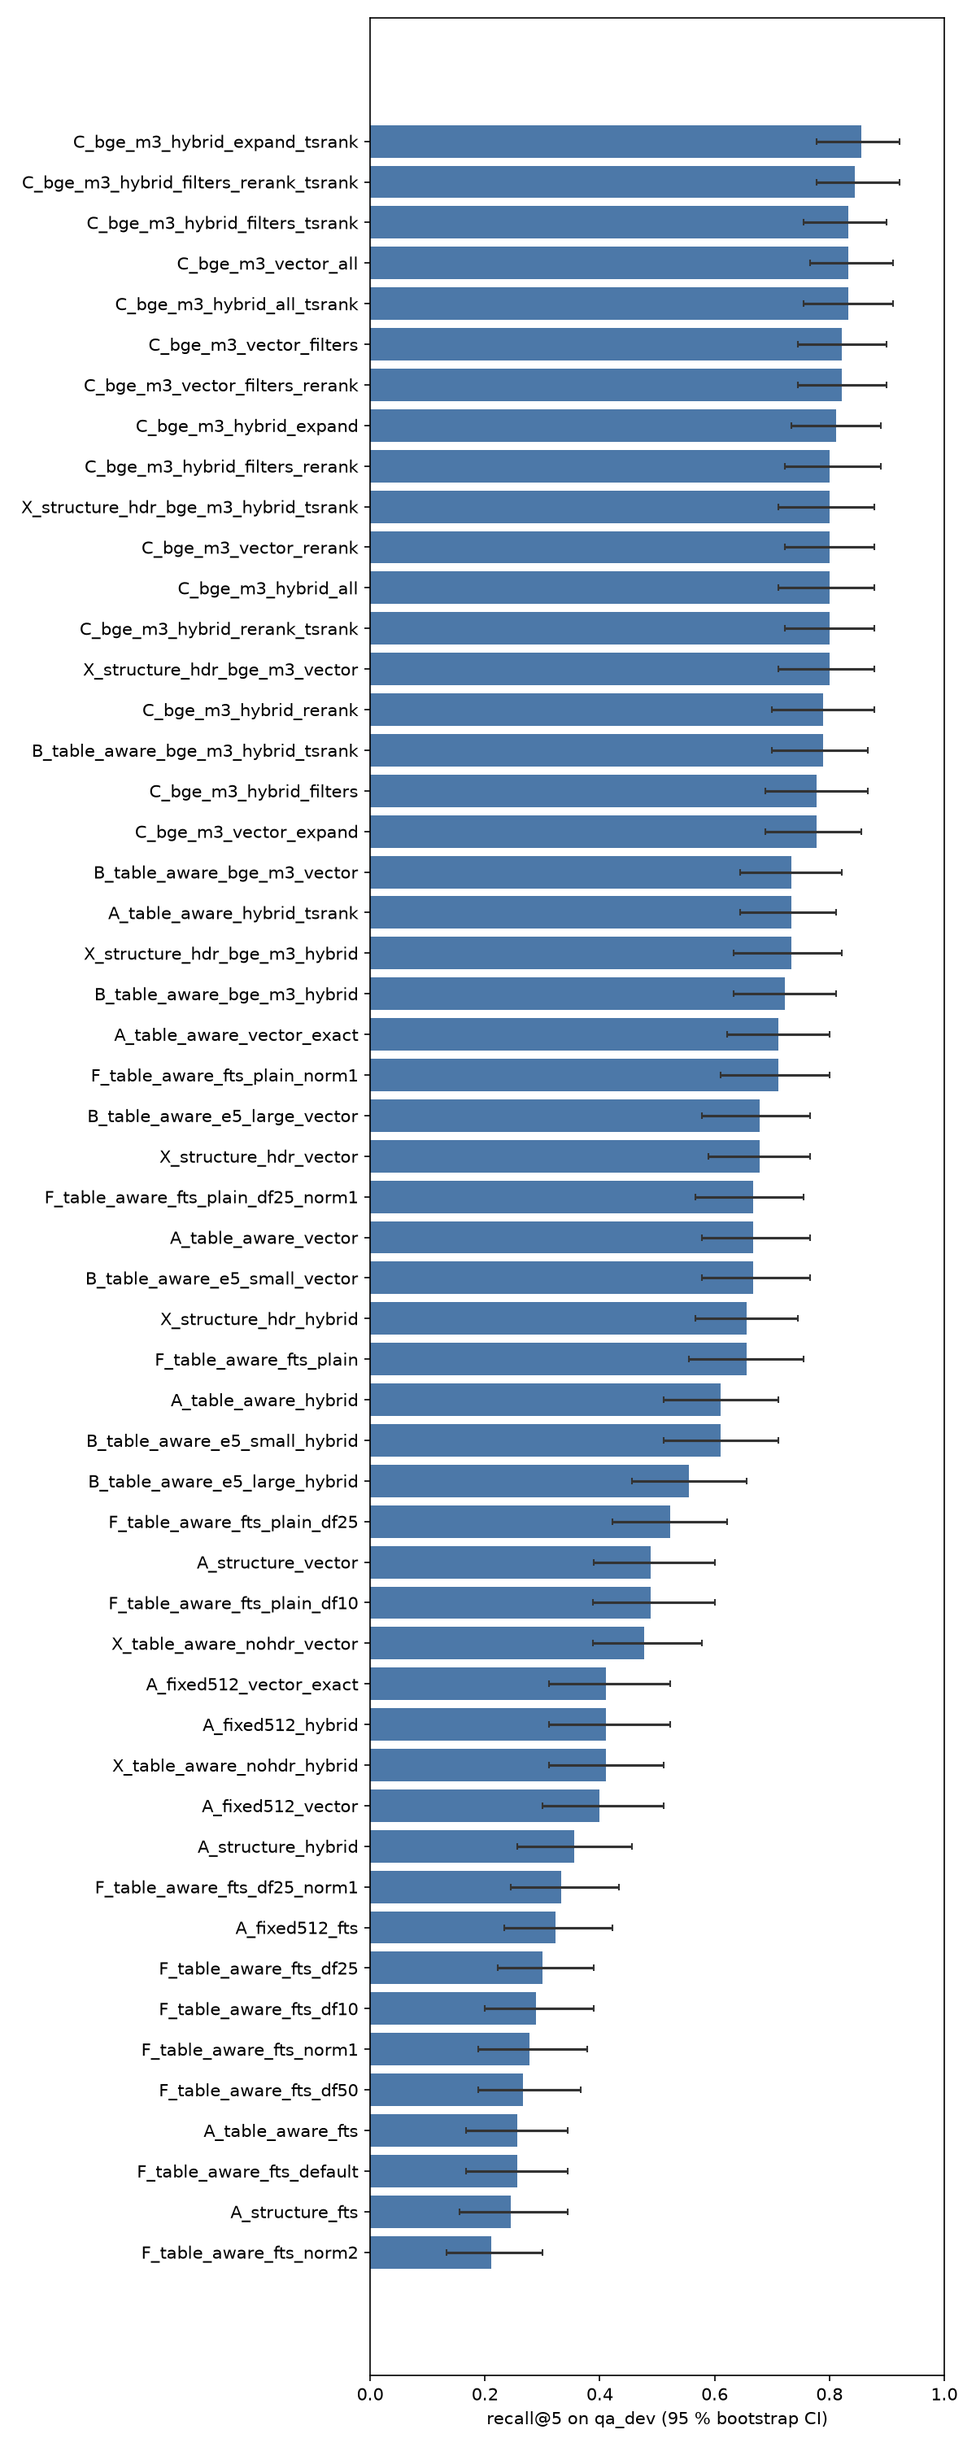
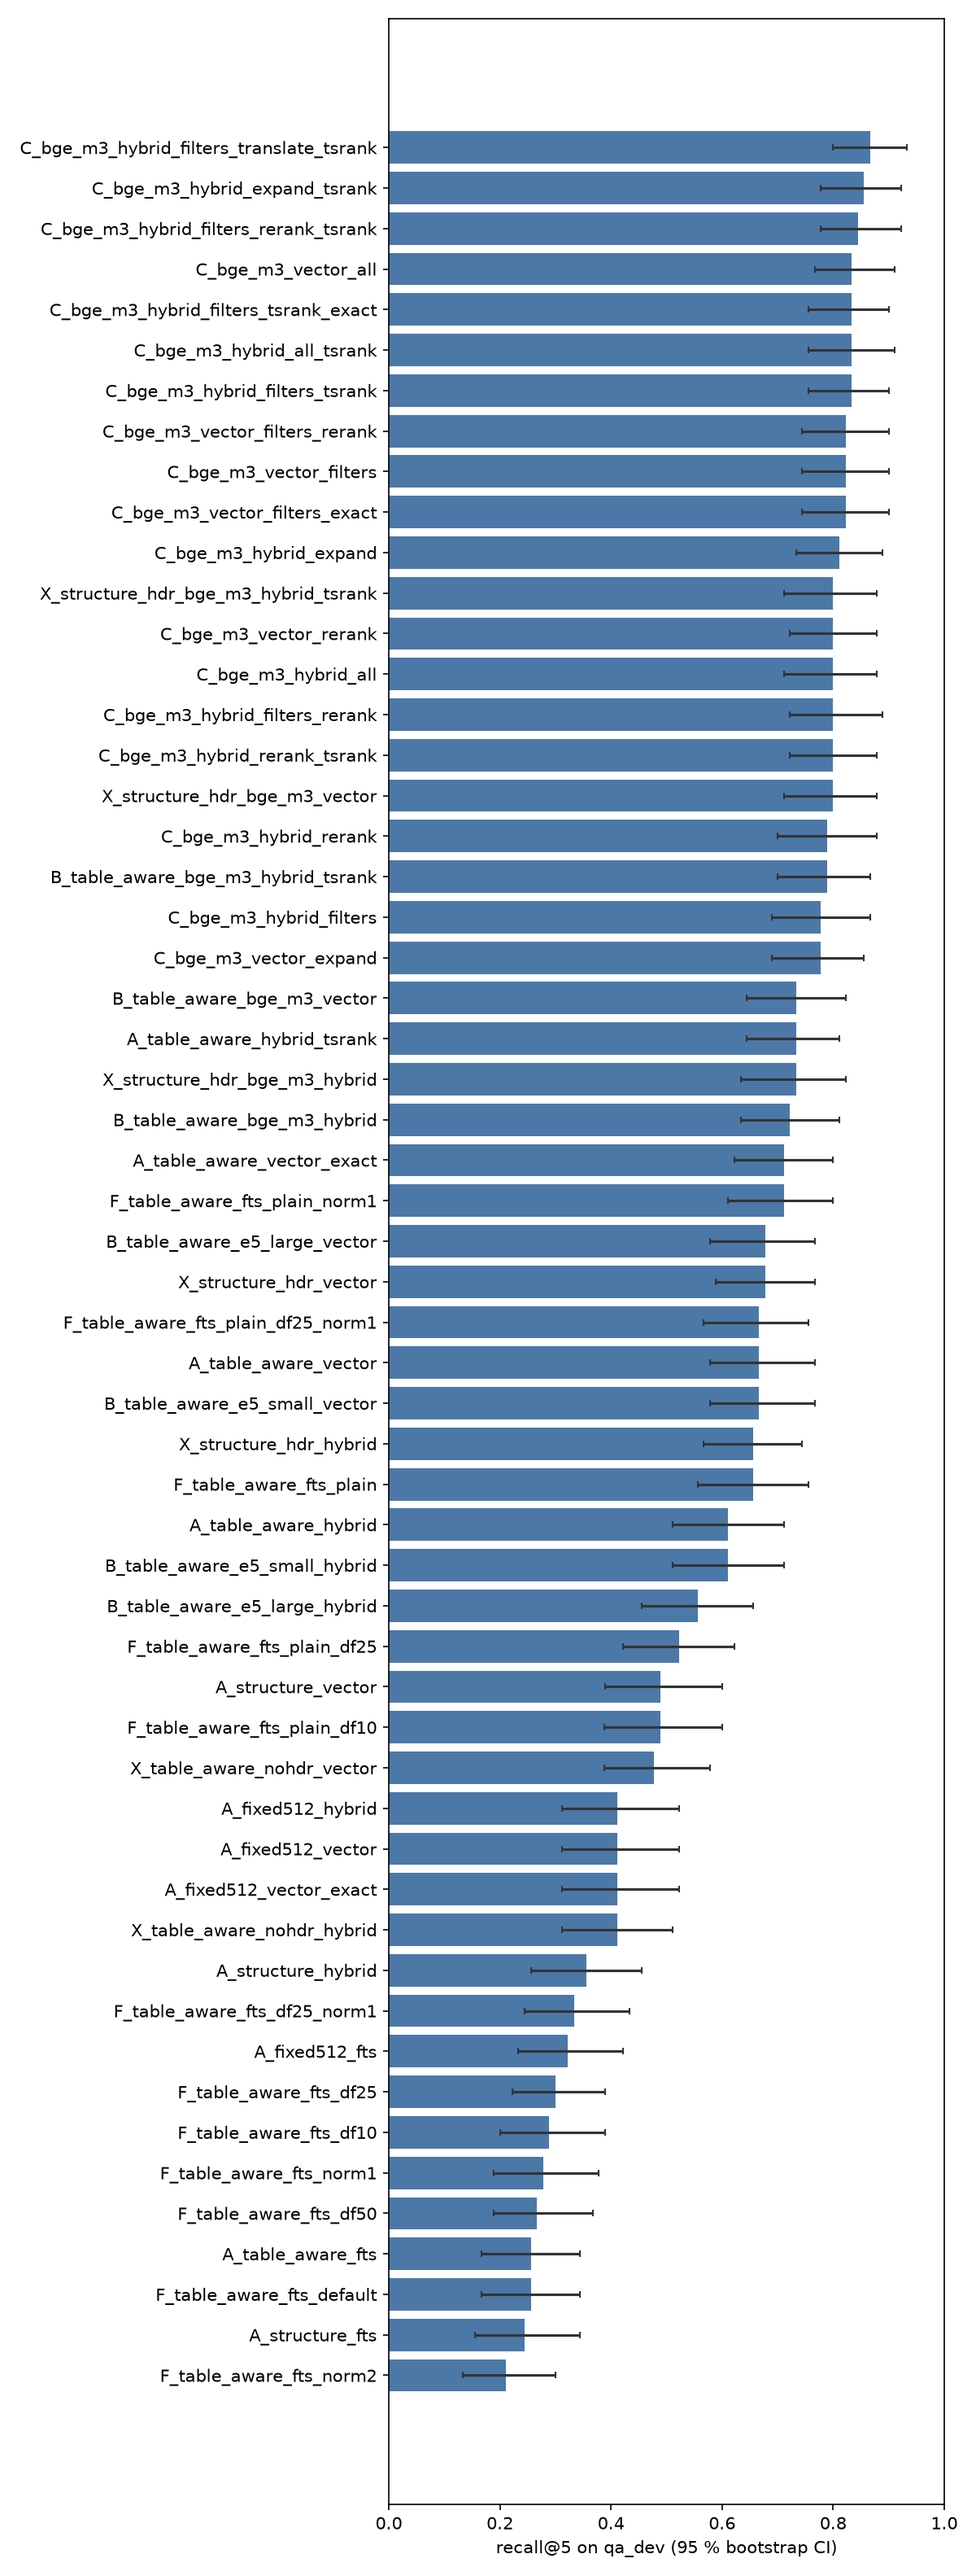
Phase 3: Stage C, error analysis, translation fix, test-set results

Changed region(s): [[0.0308, 0.0309, 0.925, 0.9897], [0.4933, 0.9588, 0.8633, 1.0]]

diff --git a/src/finagent/retrieval/expand.py b/src/finagent/retrieval/expand.py
@@ -51,3 +51,33 @@ def _expand(query: str, n: int, model: str) -> list[str]:
         max_tokens=2000,
     )
     return [q.strip() for q in r.parsed.queries if q.strip()][:n]
+
+
+BANK_LANG = {"bcv": "fr", "bcge": "fr"}  # every other bank in the corpus reports in English
+_LANG_NAME = {"en": "English", "fr": "French"}
+
+
+class Translation(BaseModel):
+    query: str
+
+
+TRANSLATE = """Translate this question about a Swiss bank's annual report into {target}, using the
+terms such a report would use. Keep bank names, years and numbers exactly. Reply with the
+translated question only.
+
+Question: {q}"""
+
+
+def translate_query(query: str, target: str, model: str = "deepseek_flash") -> str | None:
+    """Translation of the question into the report language; None if the call fails."""
+    try:
+        r = _client(model).chat(
+            [{"role": "user", "content": TRANSLATE.format(target=_LANG_NAME[target], q=query)}],
+            response_format=Translation,
+            max_tokens=2000,
+        )
+        return r.parsed.query.strip() or None
+    except ValueError as e:
+        FAILURES.append(query)
+        print(f"translation failed, using the original query only: {str(e)[:80]}", flush=True)
+        return None

diff --git a/src/finagent/retrieval/pipeline.py b/src/finagent/retrieval/pipeline.py
@@ -2,7 +2,7 @@
 
 from __future__ import annotations
 
-from finagent.retrieval.expand import expand_query
+from finagent.retrieval.expand import BANK_LANG, expand_query, translate_query
 from finagent.retrieval.fts import detect_ts_config, fts_search
 from finagent.retrieval.fusion import rrf
 from finagent.retrieval.metadata import extract_filters
@@ -21,6 +21,12 @@ def retrieve(query: str, cfg: RetrievalConfig, filters: Filters | None = None) -
     queries = [query]
     if cfg.expansion.enabled:
         queries += expand_query(query, cfg.expansion.n, cfg.expansion.model)
+    if cfg.translate_cross_lingual and filters and filters.banks:
+        q_lang = "fr" if detect_ts_config(query) == "french" else "en"
+        targets = {BANK_LANG.get(b, "en") for b in filters.banks} - {q_lang}
+        for t in sorted(targets):
+            if tr := translate_query(query, t, cfg.expansion.model):
+                queries.append(tr)
 
     lists: list[list[Hit]] = []
     for q in queries:

diff --git a/eval/report.py b/eval/report.py
@@ -63,7 +63,27 @@ def chart(summary: pd.DataFrame) -> None:
 
 
 def main() -> None:
+    import sys
+
     RESULTS.mkdir(exist_ok=True)
+    if "--test" in sys.argv:  # final configs on the held-out test set
+        df = latest_runs("eval/datasets/qa_test.jsonl")
+        summarise(df).to_csv(RESULTS / "retrieval_test.csv", index=False)
+        summarise(df, by=["type"]).to_csv(RESULTS / "retrieval_test_by_type.csv", index=False)
+        print(
+            summarise(df)[
+                [
+                    "config",
+                    "n",
+                    "recall@5",
+                    "recall@5_lo",
+                    "recall@5_hi",
+                    "mrr@10",
+                    "latency_p50_ms",
+                ]
+            ].to_string(index=False)
+        )
+        return
     df = latest_runs()
     if df.empty:
         print("no retrieval runs yet")

diff --git a/eval/run_retrieval.py b/eval/run_retrieval.py
@@ -134,10 +134,16 @@ def main() -> None:
     ap.add_argument("configs", nargs="*")
     ap.add_argument("--grid", help="glob of config files")
     ap.add_argument("--no-store", action="store_true")
+    ap.add_argument(
+        "--dataset", help="override the config's dataset, e.g. eval/datasets/qa_test.jsonl"
+    )
     args = ap.parse_args()
     paths = sorted(args.configs + (glob.glob(args.grid) if args.grid else []))
     for p in paths:
-        run_config(RetrievalConfig.from_yaml(p), store=not args.no_store)
+        cfg = RetrievalConfig.from_yaml(p)
+        if args.dataset:
+            cfg = cfg.model_copy(update={"dataset": args.dataset})
+        run_config(cfg, store=not args.no_store)
 
 
 if __name__ == "__main__":

diff --git a/src/finagent/retrieval/types.py b/src/finagent/retrieval/types.py
@@ -59,6 +59,9 @@ class RetrievalConfig(BaseModel):
     use_metadata_filters: bool = False
     rerank: Rerank = Field(default_factory=Rerank)
     expansion: Expansion = Field(default_factory=Expansion)
+    translate_cross_lingual: bool = (
+        False  # add a translation when question and report languages differ
+    )
     ann: bool = True  # False = exact vector search (no HNSW), for measuring approximation loss
     top_k: int = 10
     dataset: str = "eval/datasets/qa_dev.jsonl"

diff --git a/README.md b/README.md
@@ -45,3 +45,44 @@ sheet instead of the consolidated one.
 - "Unanswerable" items were screened by looking at the nearest passages in the same bank's reports, not by an exhaustive search,
   and most ask about 2026 forecasts.
 - Random page sampling yields many detail questions (governance, notes) and few headline KPIs.
+
+## Retrieval results (Phase 3)
+
+`qa_dev` holds 90 answerable questions and `qa_test` 45; unanswerable items are excluded from retrieval metrics. Relevance
+is page-level (gold or alternate page). Intervals are 95 % bootstrap CIs; "A beats B" is claimed only when the paired
+bootstrap CI of the per-question difference excludes 0. All runs: `results/retrieval*.csv`, chart `results/retrieval.png`.
+
+**Held-out test set (run once):**
+
+| Configuration | recall@5 [95 % CI] | MRR@10 | p50 latency |
+|---|---|---|---|
+| Naive baseline: fixed 512-token chunks, e5-small, vector | 0.44 [0.29, 0.58] | 0.27 | 14 ms |
+| bge-m3 vector + bank/year filters | 0.80 [0.67, 0.91] | 0.71 | 25 ms |
+| bge-m3 hybrid (vector + FTS, RRF) + filters + cross-lingual translation | 0.80 [0.67, 0.91] | 0.74 | 54 ms (p95 2.2 s) |
+
+Both final configurations beat the baseline (recall@5 +0.36, CI [+0.18, +0.51]; MRR +0.44 to +0.47); they are not
+distinguishable from each other on test (recall@5 +0.00 [-0.09, +0.09], MRR +0.03 [-0.06, +0.11]). On dev the hybrid
+configuration scored 0.87 recall@5, so part of its dev advantage was selection on dev.
+
+**Findings (dev unless stated):**
+
+1. **The context header, not table isolation, drove the chunker result.** Table-aware chunking beat structure-based
+   chunking by +0.18 recall@5, but removing its one-line `Bank | Year | Section` header erased the gain (table-aware without
+   header vs structure: -0.01, n.s.), and adding the header to structure chunks gave the same score as table-aware (+0.01, n.s.).
+2. **bge-m3 ranks better than the e5 models; size alone does not.** On table-aware chunks, bge-m3 improved MRR by +0.11
+   [+0.03, +0.20] over e5-small; e5-large was no better than e5-small (+0.00).
+3. **Metadata filters are the cheapest win; reranking and LLM expansion add latency, not accuracy.** Bank/year filters:
+   +0.09 recall@5 [+0.03, +0.14] at no latency cost. A cross-encoder reranker (+1 s) and 3-query LLM expansion (+2.6 s) were
+   not significant alone and added nothing on top of filters.
+4. **Postgres full-text search needs `ts_rank` for OR queries.** With `ts_rank_cd` (cover density) the OR query ranked almost
+   arbitrarily (recall@5 0.26); `ts_rank` with length normalisation reached 0.71, on par with dense retrieval, and made
+   hybrid retrieval useful (e5-small hybrid vs vector: MRR +0.09 [+0.03, +0.16]). My first conclusion that "FTS is weak and
+   hybrid does not help" was an artefact of that ranking choice.
+5. **Cross-lingual questions were the top failure cause, and translation fixed most of them.** Of 15 misses of the best dev
+   configuration, 5 were English questions about the French-language BCGE report; translating the question when its language
+   differs from the named bank's report raised cross-lingual recall@5 from 0.50 to 0.80 (n = 10) and overall MRR by +0.03
+   [+0.01, +0.06]. Other misses: 3 ambiguous or wrong items (one corrected), 2 gold labels too narrow, 1 lost table header,
+   4 other (`results/error_analysis.csv`).
+
+Caveats: 90 dev questions give wide intervals; many configurations were compared on the same dev set; approximate (HNSW)
+search cost up to 0.04 recall@5 for unfiltered queries because one index serves five chunkers.

diff --git a/JOURNAL.md b/JOURNAL.md
@@ -12,3 +12,4 @@ One line per session: what I tried, what I measured, what surprised me.
 - 2026-11-06 — Phase 3 Stage A (9 configs, e5-small, qa_dev, 90 answerable items): table_aware+vector best (R@5 0.67 [0.58,0.77], MRR 0.51), then table_aware+hybrid (0.61), structure+vector (0.49), fixed512 (0.40-0.41). Paired bootstrap: table_aware beats structure (+0.18 R@5) and fixed512 (+0.27) with vector retrieval; structure vs fixed512 not significant. FTS is weak everywhere (R@5 0.24-0.32) and hybrid does not beat vector (table_aware: R@5 not significant, MRR -0.11 significant; structure: hybrid R@5 -0.13 significant). Confound to test: table_aware chunks carry "Bank | Year | Section" in their text, so part of the gain may be implicit bank/year matching rather than table isolation.
 - 2026-11-07 — Phase 3 ablation + Stage B (qa_dev, n=90). Header ablation (e5-small, vector): table_aware 0.67 R@5; table_aware WITHOUT its "Bank | Year | Section" header 0.48 (paired diff +0.19 [+0.10,+0.28]); structure 0.49; structure WITH the header 0.68 (+0.19 [+0.09,+0.29] over plain structure; vs table_aware +0.01 ns). So the earlier "table_aware wins" was the context header, not table isolation: without it table_aware is not distinguishable from structure (-0.01 ns) and only borderline over fixed512 (+0.08, CI [0.00,+0.17]). Embeddings on table_aware, vector: bge-m3 0.73 R@5 / 0.62 MRR, e5-large 0.68 / 0.52, e5-small 0.67 / 0.51; bge-m3 vs e5-small R@5 ns (+0.07), MRR +0.11 significant; e5-large = e5-small. Hybrid (RRF) never beats vector alone (bge-m3: R@5 ns, MRR -0.14 significant). Re-running e5-small configs reproduced Stage A numbers exactly.
 - 2026-11-07 — CORRECTION: "FTS is weak" and "hybrid never beats vector" (entries above) were artifacts of my FTS ranking. With an OR query, ts_rank_cd (cover density) ranks almost arbitrarily (top hit for "Vontobel CET1 2025" was an EFG balance-sheet chunk). Switching to ts_rank: table_aware FTS R@5 0.26 -> 0.66 (+0.40 [+0.29,+0.51]), MRR 0.17 -> 0.47, no different from e5-small vector (-0.01 [-0.12,+0.11]); literal questions 0.83 vs paraphrased 0.50, as expected for keyword matching. All hybrid runs so far fused the broken FTS list and must be re-run. Default stays ts_rank_cd only so old configs reproduce; new configs set fts.rank explicitly.
+- 2026-11-07 — Phase 3 done. Stage C (bge-m3, table_aware): filters +0.09 R@5 significant; rerank / expansion n.s. alone and nothing on top of filters. Hybrid with fixed FTS (ts_rank, norm 1) helps e5-small (MRR +0.09) but not significantly bge-m3. Exact vs HNSW: identical with filters, up to -0.04 R@5 unfiltered (one index, five chunkers). Error analysis (15 misses): 5 cross-lingual BCGE, 3 ambiguous/wrong items (q128 used Swissquote standalone balance sheet: fixed), 2 gold too narrow, 1 header lost, 4 other. Fix: translate question to the named bank's report language -> cross-lingual R@5 0.50 -> 0.80, MRR +0.03 significant. Also fixed numeric tolerances (were derived from unit-converted calculations). TEST (once): baseline 0.44 R@5; bge-m3 vector+filters 0.80 / MRR 0.71; hybrid+filters+translate 0.80 / 0.74 (dev 0.87: some dev selection). Mistakes this phase: two pgrep self-match bugs in my job queuing (one stalled a wait, one briefly ran two GPU jobs at once).
